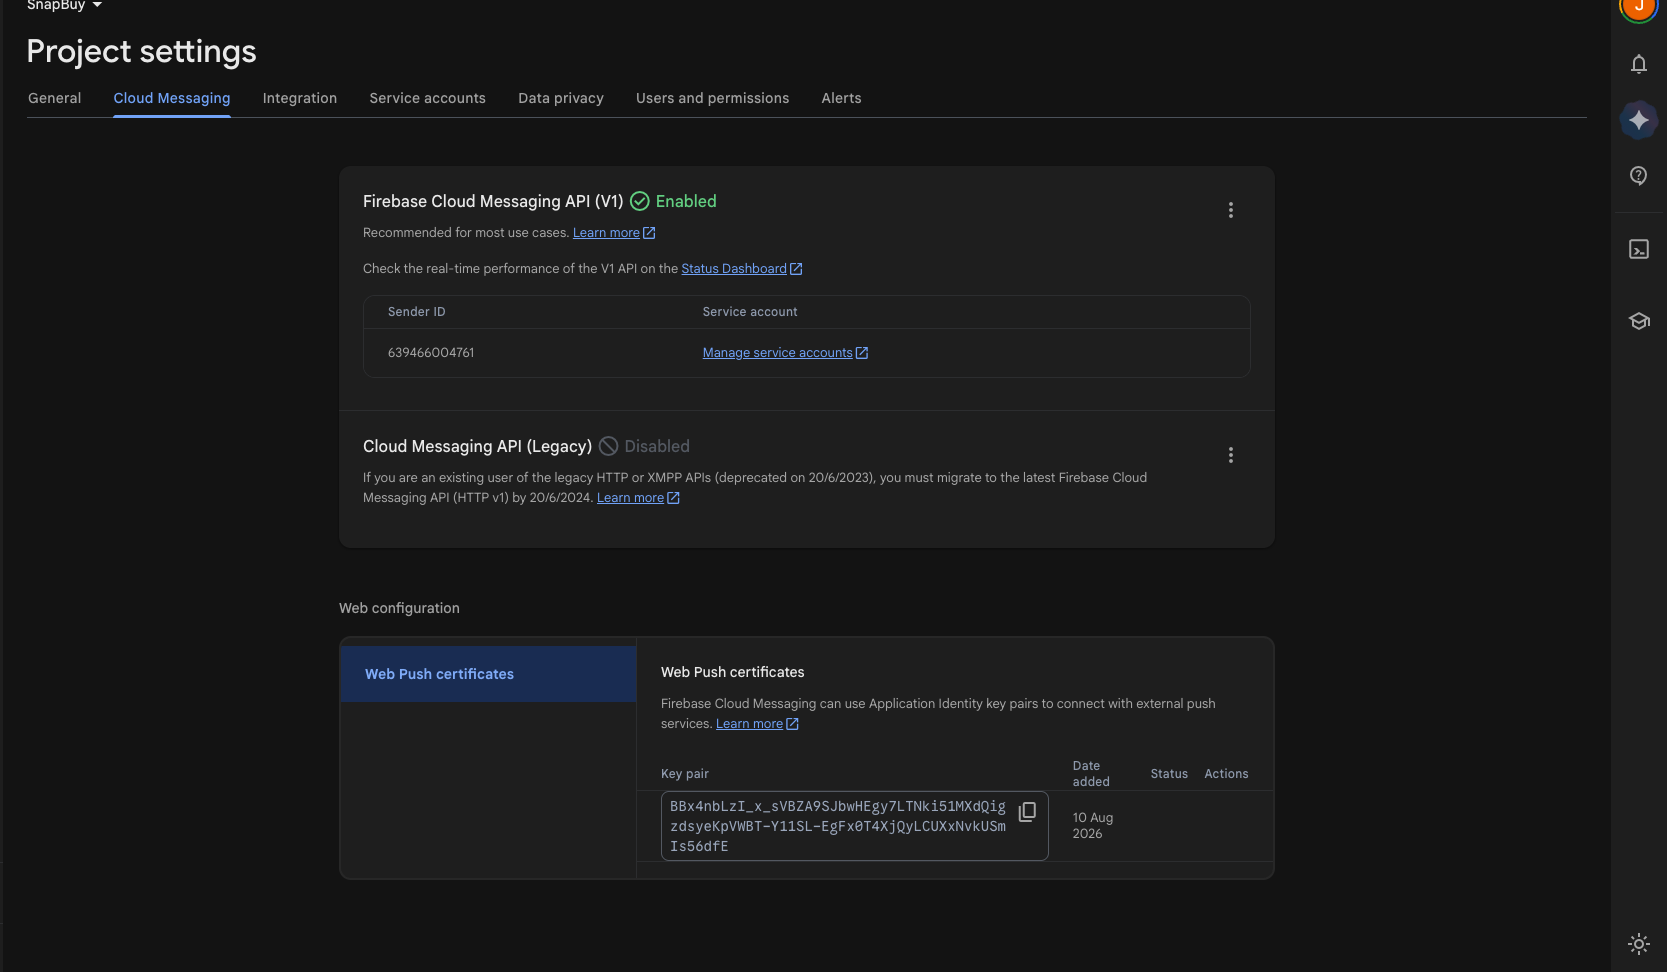
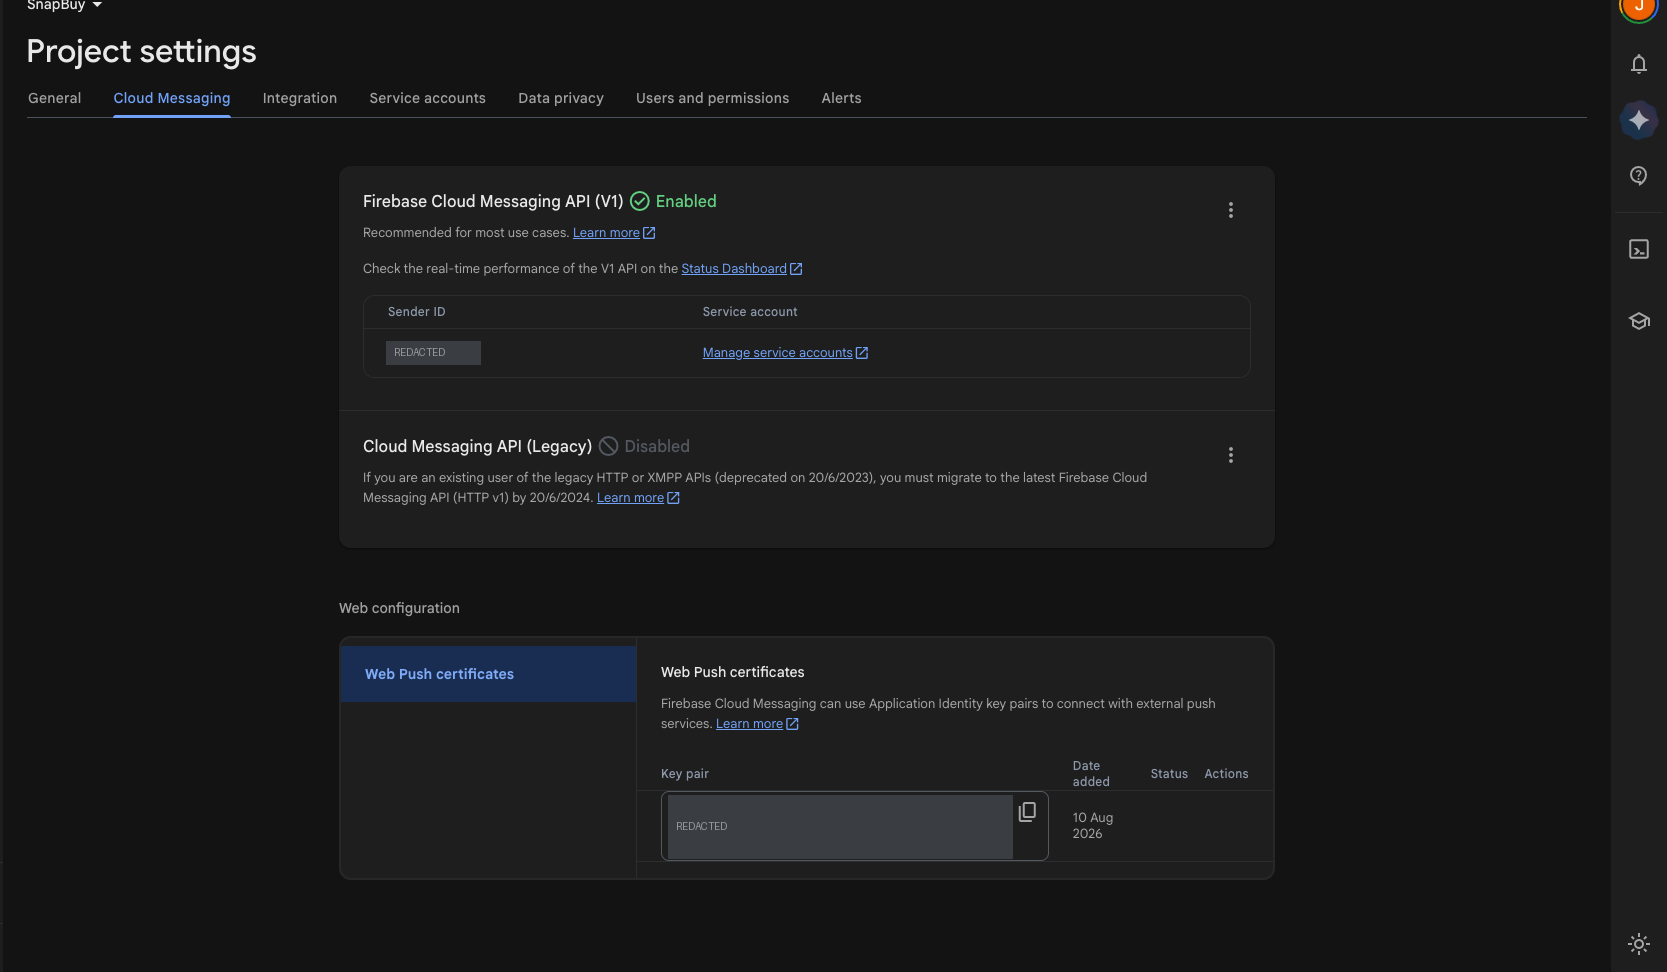
docs: update Firebase setup guide by removing obsolete image and adding new configuration screenshots

Changed region(s): [[0.3743, 0.8025, 0.6239, 0.8951], [0.2184, 0.3395, 0.3119, 0.4012]]

diff --git a/docs/web/firebase-setup.md b/docs/web/firebase-setup.md
@@ -41,8 +41,6 @@ This guide covers creating the Firebase project, wiring the credentials into the
 
 4. Firebase then shows a `firebaseConfig` object. **Keep this open** — you need all seven values twice, in two different files.
 
-![Firebase SDK configuration values](./web-firebase-image/step5.png)
-
 ```js
 // what Firebase shows you
 const firebaseConfig = {
@@ -56,11 +54,13 @@ const firebaseConfig = {
 };
 ```
 
-:::note Finding these values again
+If you close the wizard, the same values are always available under **Project Settings → General → Your apps**, with the **Config** option selected:
 
-If you close the wizard, the same config is always available under **Project Settings → General → Your apps**, with the **Config** option selected.
+![Firebase SDK config values under Project Settings](./web-firebase-image/step6.png)
 
-![Config values under Project Settings](./web-firebase-image/step6.png)
+:::note
+
+The values are blanked out in the screenshots above. Use the ones shown in **your own** Firebase console.
 
 :::
 
